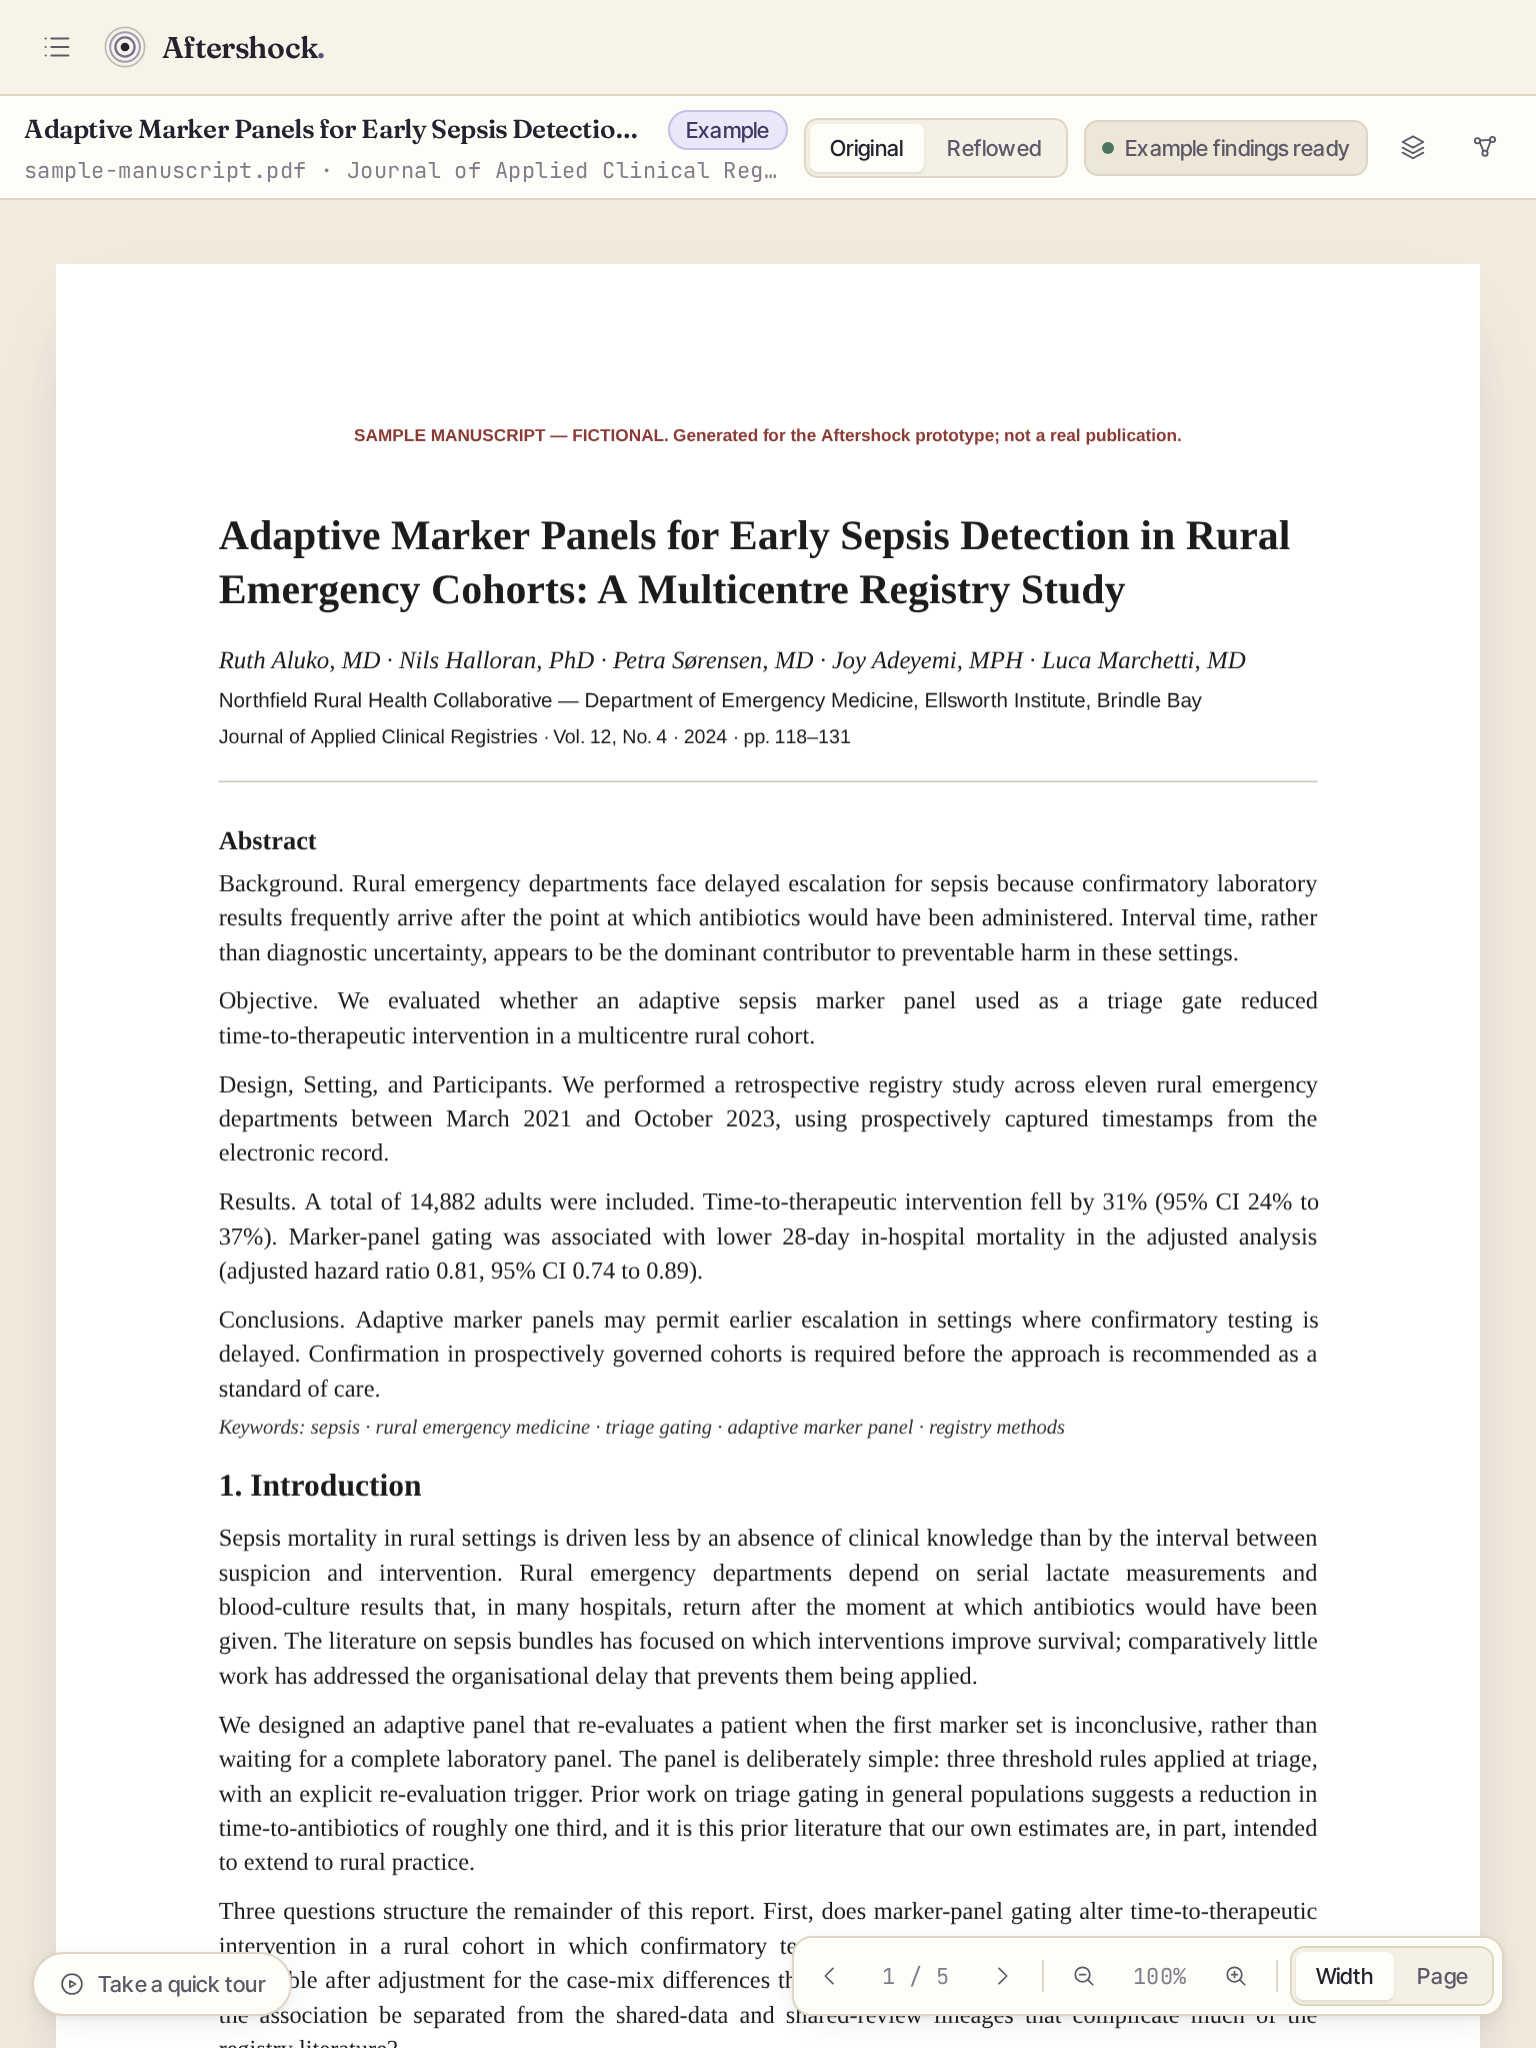
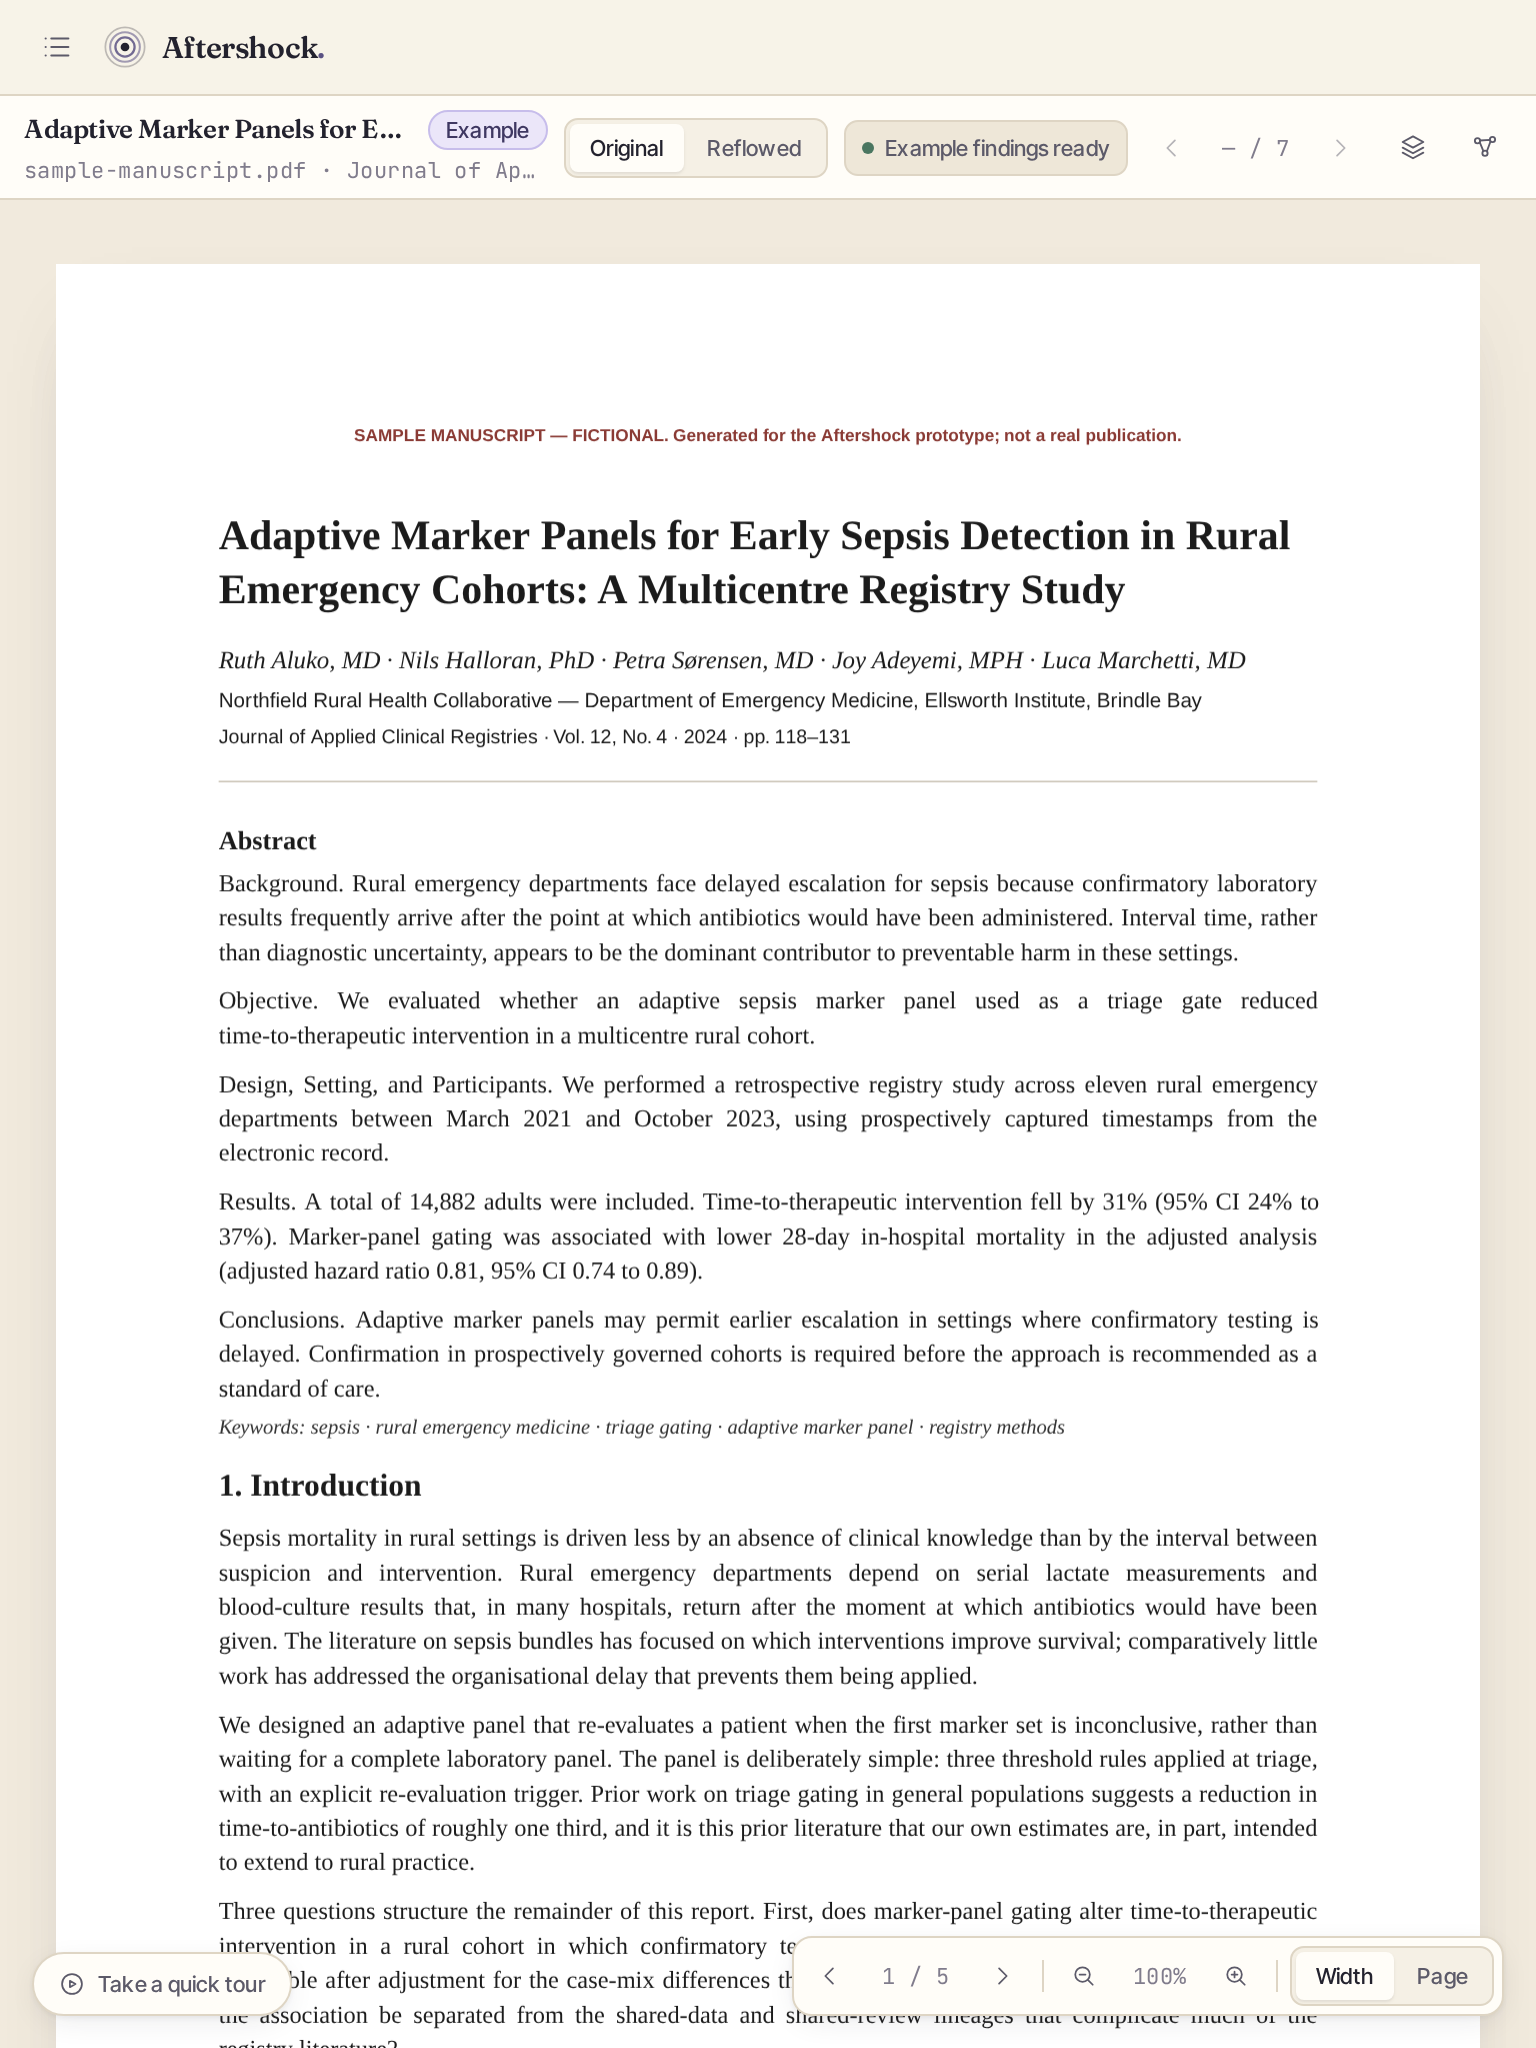
feat(experiment): finding navigation and margin indicators in the reader
- Previous / next finding controls with a position counter in the reader bar
- One margin indicator per annotated passage, drawn in the page gutter
- Re-captured the full screenshot set (26 screens) after the visual pass

Changed region(s): [[0.2812, 0.0312, 0.9062, 0.0938]]

diff --git a/experiments/minimax-m31-frontend/src/components/PdfViewer.tsx b/experiments/minimax-m31-frontend/src/components/PdfViewer.tsx
@@ -380,8 +380,21 @@ export const PdfViewer = forwardRef<PdfViewerHandle, Props>(function PdfViewer(
                     const isSelected = anchor.id === selectedId;
                     const isHovered = anchor.id === hoveredId;
                     const colour = TONE_RGB[anchor.tone];
+                    const first = anchor.rects[0];
                     return (
                       <div key={anchor.id}>
+                        {first ? (
+                          <span
+                            aria-hidden="true"
+                            className="annotation-pin"
+                            style={{
+                              left: -14,
+                              top: first.y * scale + (first.height * scale) / 2,
+                              background: colour,
+                              opacity: isSelected ? 1 : isHovered ? 0.9 : 0.66,
+                            }}
+                          />
+                        ) : null}
                         {anchor.rects.map((rect, index) => {
                           const left = rect.x * scale;
                           const top = rect.y * scale;
@@ -410,16 +423,6 @@ export const PdfViewer = forwardRef<PdfViewerHandle, Props>(function PdfViewer(
                                   width,
                                   color: colour,
                                   opacity: isSelected ? 1 : isHovered ? 1 : 0.62,
-                                }}
-                              />
-                              <span
-                                aria-hidden="true"
-                                className="annotation-pin"
-                                style={{
-                                  left: -13,
-                                  top: top + height / 2,
-                                  background: colour,
-                                  opacity: isSelected ? 1 : 0.72,
                                 }}
                               />
                             </div>

diff --git a/experiments/minimax-m31-frontend/src/pages/ReaderPage.tsx b/experiments/minimax-m31-frontend/src/pages/ReaderPage.tsx
@@ -141,6 +141,21 @@ export default function ReaderPage() {
     window.setTimeout(() => viewerRef.current?.scrollToAnchor(findingId), 60);
   };
 
+  const currentFindingIndex = revealed.findIndex(
+    (finding) => finding.id === state.selectedFindingId,
+  );
+  const hasPrevious = currentFindingIndex > 0;
+  const hasNext =
+    currentFindingIndex >= 0 && currentFindingIndex < revealed.length - 1;
+
+  const stepFinding = (direction: 1 | -1) => {
+    if (revealed.length === 0) return;
+    const base = currentFindingIndex < 0 ? (direction === 1 ? -1 : 0) : currentFindingIndex;
+    const next = base + direction;
+    if (next < 0 || next >= revealed.length) return;
+    selectFinding(revealed[next]!.id);
+  };
+
   const openGraph = (findingId: string) => {
     dispatch({ type: 'select-finding', findingId });
     navigate(`/i/${documentId}/graph`);
@@ -241,6 +256,25 @@ export default function ReaderPage() {
               </div>
             ) : null}
           </div>
+
+          {/* Finding navigation */}
+          {revealed.length > 0 ? (
+            <div className="hidden items-center gap-0.5 sm:flex">
+              <IconButton
+                label="Previous finding"
+                disabled={!hasPrevious}
+                onClick={() => stepFinding(-1)}
+              >
+                <IconChevronRight size={14} className="rotate-180" />
+              </IconButton>
+              <span className="meta w-[52px] text-center tabular-nums">
+                {currentFindingIndex < 0 ? '—' : currentFindingIndex + 1} / {revealed.length}
+              </span>
+              <IconButton label="Next finding" disabled={!hasNext} onClick={() => stepFinding(1)}>
+                <IconChevronRight size={14} />
+              </IconButton>
+            </div>
+          ) : null}
 
           <IconButton
             label={inspectorOpen ? 'Hide evidence inspector' : 'Show evidence inspector'}

diff --git a/experiments/minimax-m31-frontend/src/styles/index.css b/experiments/minimax-m31-frontend/src/styles/index.css
@@ -148,10 +148,11 @@
   .annotation-pin {
     position: absolute;
     pointer-events: none;
-    width: 6px;
-    height: 6px;
+    width: 5px;
+    height: 16px;
     border-radius: 99px;
     transform: translateY(-50%);
+    box-shadow: 0 0 0 2px rgb(var(--c-paper-raised) / 0.85);
   }
 
   /* ---- Native PDF text layer (selection) ---------------------------- */

diff --git a/experiments/minimax-m31-frontend/deliverables/BUILD_STATUS.md b/experiments/minimax-m31-frontend/deliverables/BUILD_STATUS.md
@@ -65,6 +65,10 @@ interruption.
 - [x] Sidebar collapse, panel transitions, ripple, annotation reveals
 - [x] `prefers-reduced-motion` honoured globally
 - [x] Verified at 1440×900, 1366×768, 1024×768, 768×1024, 390×844, 360×800
+- [x] Mobile: reflowed reader by default, bottom-sheet inspector, graph
+      filters and node records in sheets, report preview first
+- [x] Finding navigation (previous / next, with a counter) in the reader bar
+- [x] One margin indicator per annotated passage in the page gutter
 
 ### Phase 6 — visual inspection
 - [x] 22 screenshots captured from the running app (`scripts/capture.mjs`)
@@ -79,7 +83,7 @@ interruption.
 - [x] `npm run verify:anchors` — all 6 anchors resolve against the PDF
 - [x] `npm run journey` — 22/22 steps of the required user journey pass,
       no console errors, real HTML and DOCX files produced
-- [x] `npm run capture` — 22 screenshots, no console errors
+- [x] `npm run capture` — 26 screenshots, no console errors
 - [x] `deliverables/design-system.md`
 - [x] `deliverables/prototype-limitations.md`
 - [x] `deliverables/screenshots/`
@@ -96,7 +100,7 @@ interruption.
 | `npm test` | 5 files, 47 tests, all passing |
 | `npm run verify:anchors` | all 6 anchors resolve against the PDF |
 | `npm run journey` | 22/22 steps pass, **no console errors** |
-| `npm run capture` | 22 screenshots, **no console errors** |
+| `npm run capture` | 26 screenshots, **no console errors** |
 
 Test coverage:
 - `tests/anchors.test.ts` — phrase location across line breaks, geometry,
